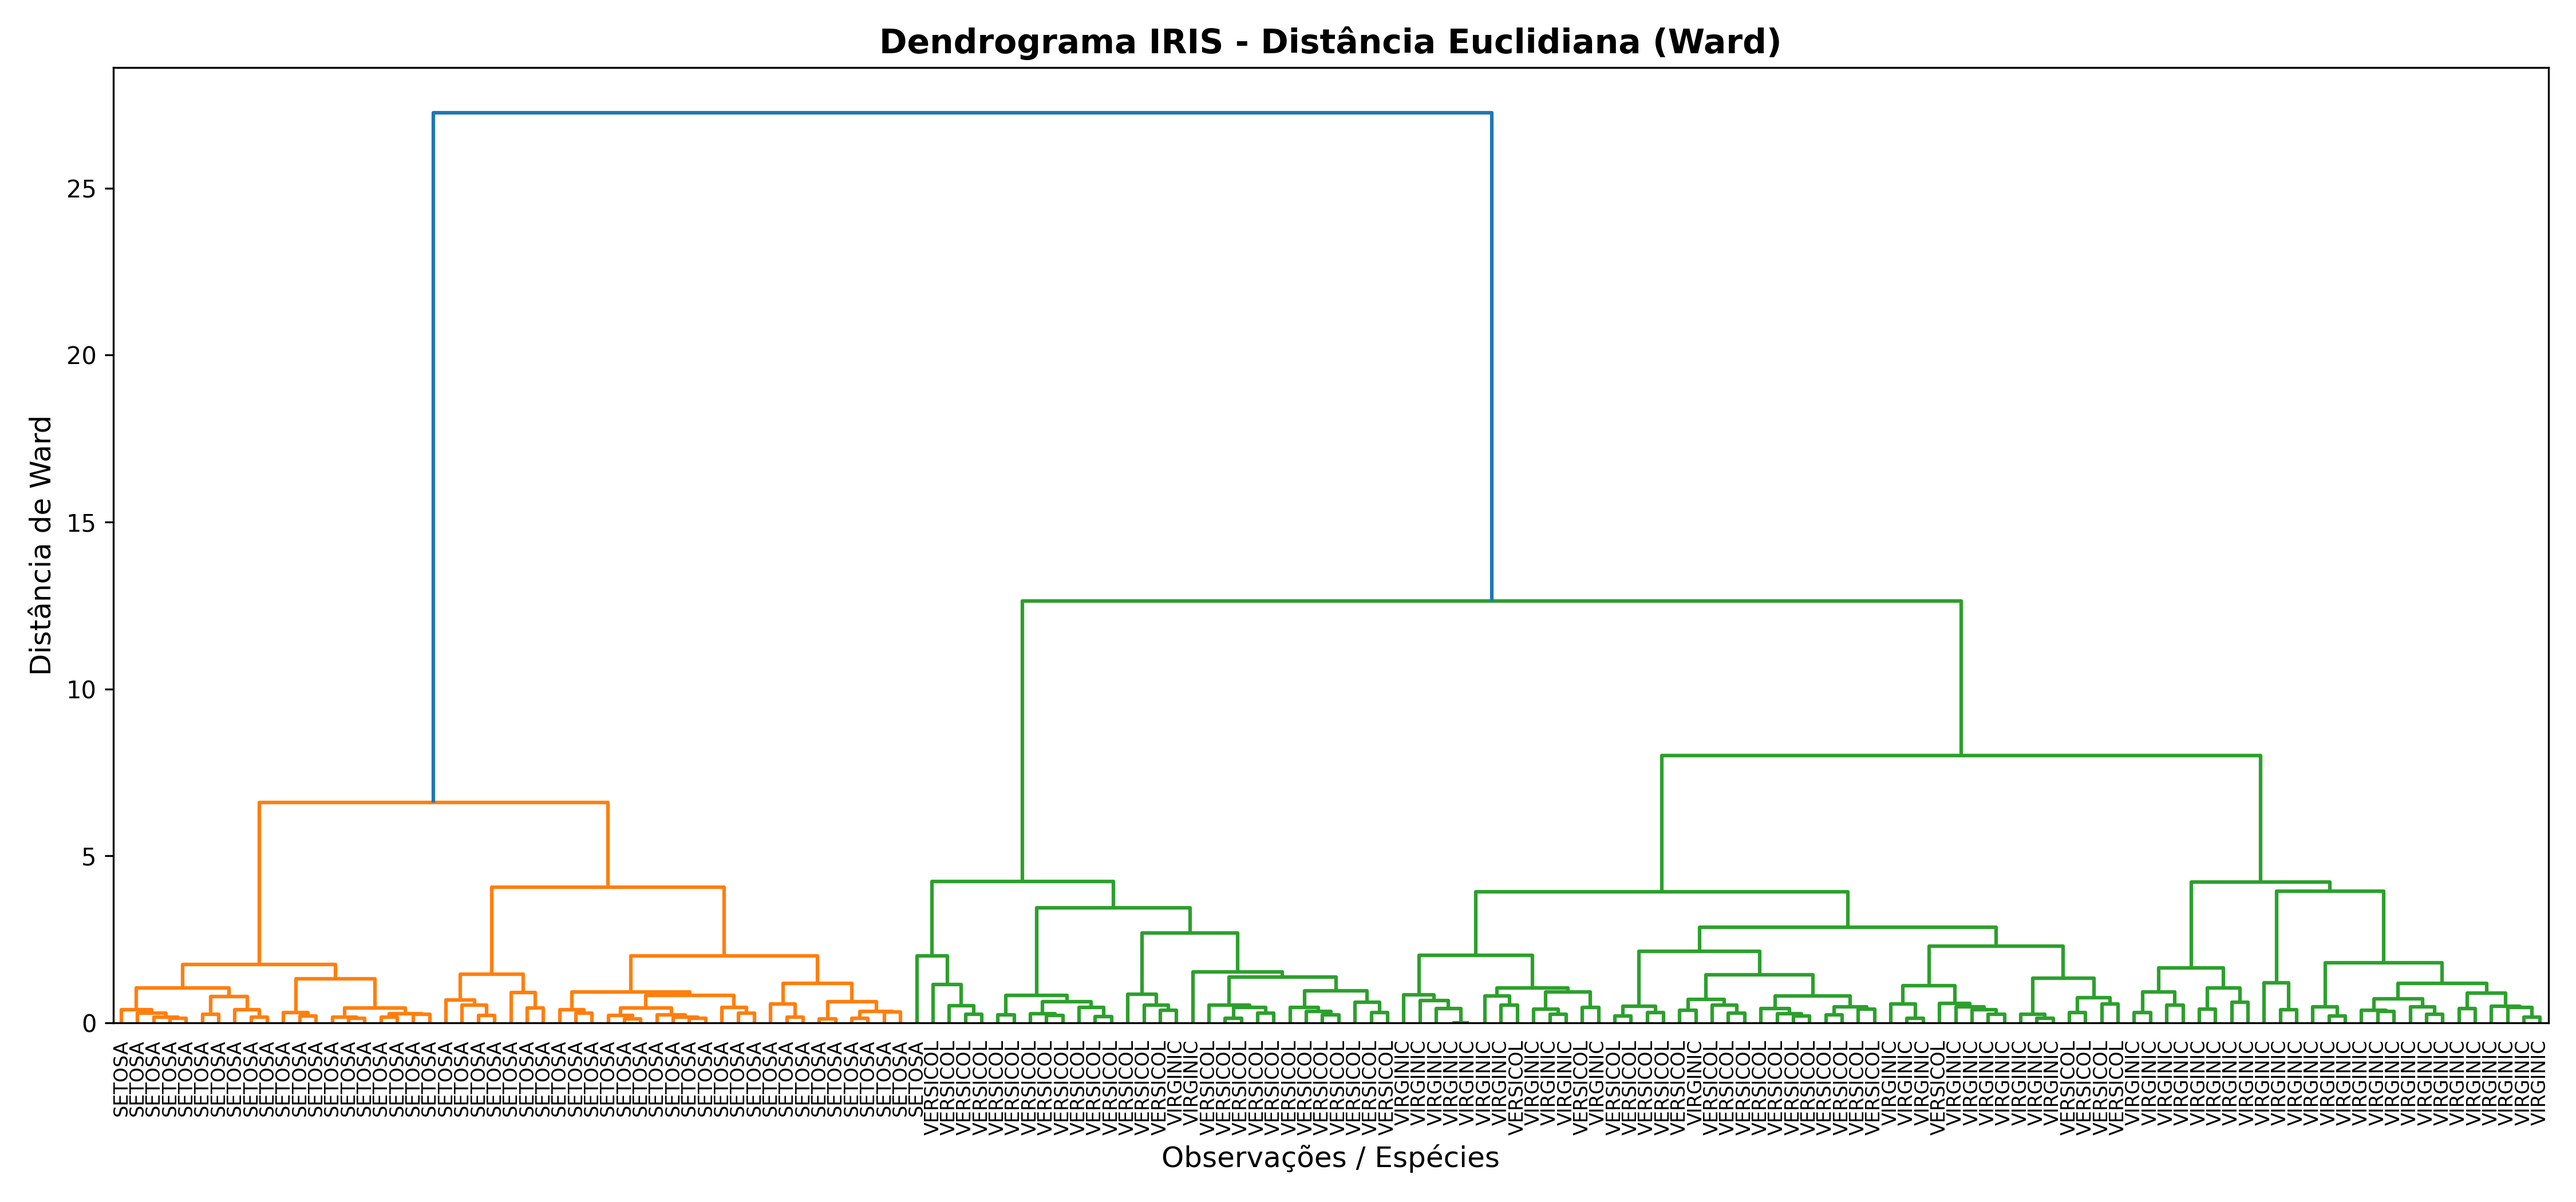
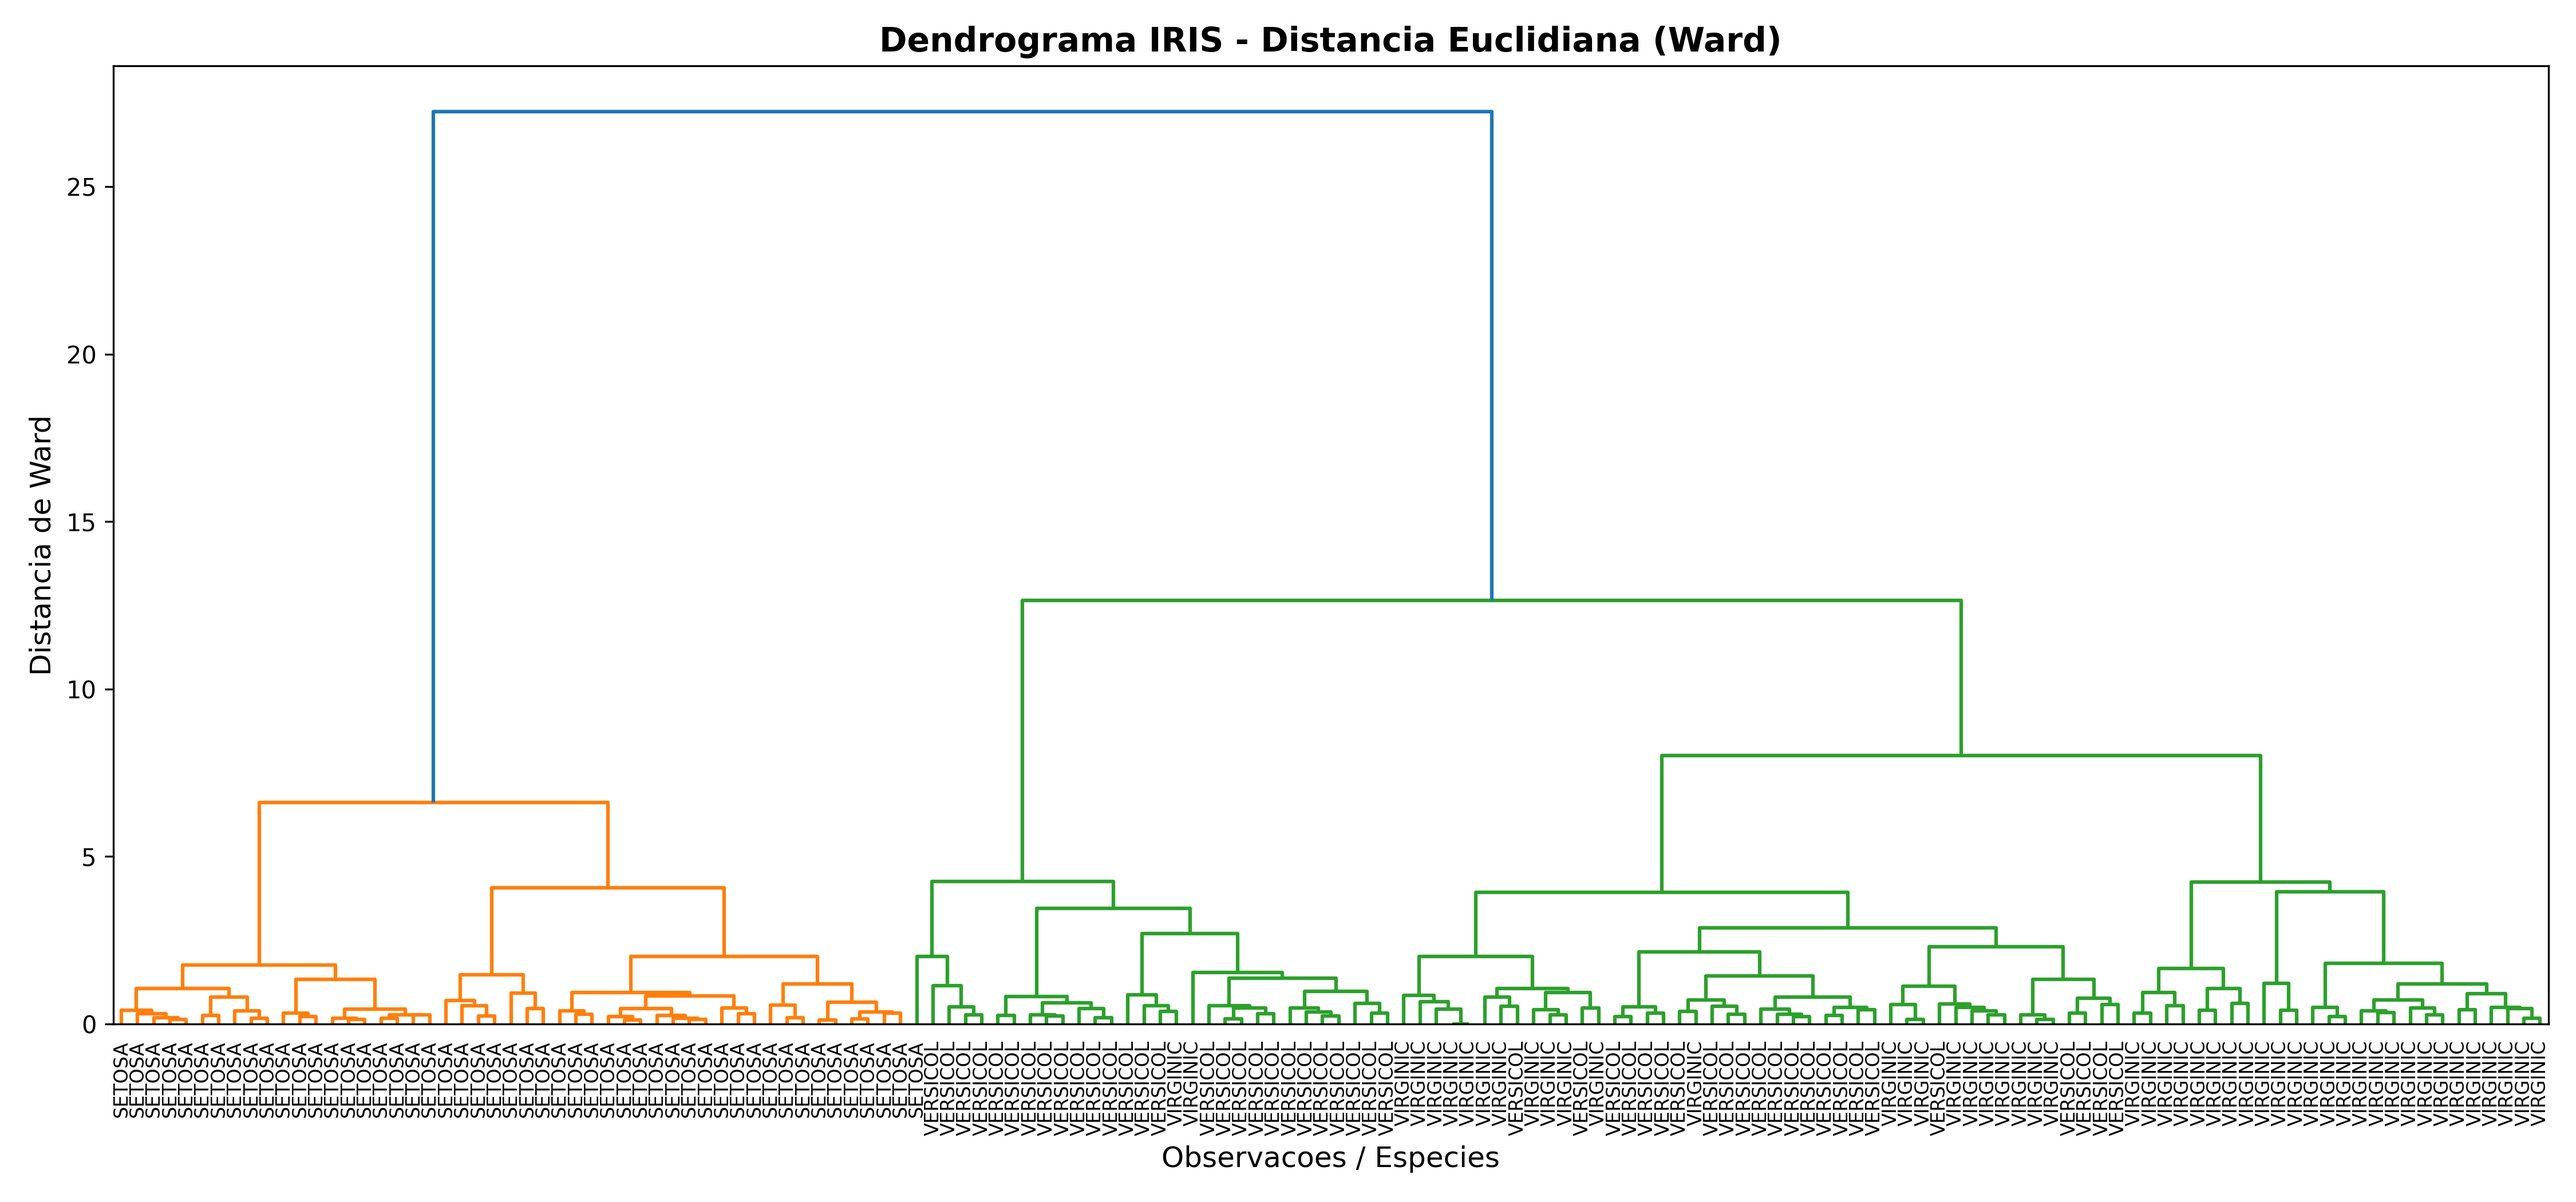
separa em grupos exercicio 2

Changed region(s): [[0.0311, 0.8048, 0.9956, 0.9595], [0.0622, 0.031, 0.9644, 0.0619]]

diff --git a/exercicios/exercicio_1/src/main_ex2.py b/exercicios/exercicio_1/src/main_ex2.py
@@ -12,30 +12,50 @@ print("--- Primeiras 10 linhas do dataset IRIS ---")
 print(df.head(10))
 
 # 3. Standardization (Scale)
-# Selecionamos as colunas numéricas (SEPALLEN, SEPALWID, PETALLEN, PETALWID)
-features = ['SEPALLEN', 'SEPALWID', 'PETALLEN', 'PETALWID']
-X = df[features].values
+# Selecionamos as colunas numericas (SEPALLEN, SEPALWID, PETALLEN, PETALWID)
+variaveis_list = ['SEPALLEN', 'SEPALWID', 'PETALLEN', 'PETALWID']
+mtz_vlrs = df[variaveis_list].values
 species = df['specie'].values
 
+print("Matriz de valores (primeiras 5 linhas):")
+print(mtz_vlrs[:5])
+
 scaler = StandardScaler()
-X_scaled = scaler.fit_transform(X)
+mtz_vlrs_padrozinados = scaler.fit_transform(mtz_vlrs)
+
 print("\nDados padronizados (primeiras 5 linhas):")
-print(X_scaled[:5])
+print(mtz_vlrs_padrozinados[:5])
 
 # 4. Produce distance matrix (Euclidean)
-dist_euclidean = pdist(X_scaled, metric='euclidean')
+dist_euclidean = pdist(mtz_vlrs_padrozinados, metric='euclidean')
 
 # 5. Show preview of distance matrix (squareform)
-# Mostrando apenas um subconjunto 5x5 para não poluir o terminal
+# Mostrando apenas um subconjunto 5x5 para nÃ£o poluir o terminal
 df_dist = pd.DataFrame(squareform(dist_euclidean))
-print("\n--- Prévia da Matriz de Distância (Subconjunto 5x5) ---")
+print("\n--- Previa da Matriz de Distancia (Subconjunto 5x5) ---")
 print(df_dist.iloc[:5, :5].round(3))
 
 # 6. Produce the Dendrogram
-print("\n--- Gerando Dendrograma Hierárquico (IRIS) ---")
+print("\n--- Gerando Dendrograma Hierarquico (IRIS) ---")
 ex2_2_clustering_iris.plot_dendrogram_iris(
     dist_euclidean, 
     labels=species, 
-    title='Dendrograma IRIS - Distância Euclidiana (Ward)', 
+    title='Dendrograma IRIS - Distancia Euclidiana (Ward)', 
     filename='dendrograma_iris_ward.png'
 )
+
+
+# 7. Cluster Assignment
+# Vamos atribuir 3 grupos (k=3) pois sabemos que existem 3 especies
+df_grupos = ex2_2_clustering_iris.atribuir_grupos(dist_euclidean, species, t=3, criterion='maxclust')
+print("\n--- Atribuicao de Grupos (Ward, k=3) ---")
+print(df_grupos.head(10))
+
+# Verificar a contagem em cada grupo
+print("\nContagem por grupo:")
+print(df_grupos['Grupo'].value_counts())
+
+# Opcional: Comparar com as especies originais (Crosstab)
+print("\n--- Cruzamento: Especie Original vs Grupo Hierarquico ---")
+print(pd.crosstab(df_grupos['Especie'], df_grupos['Grupo']))
+

diff --git a/exercicios/exercicio_1/src/main_ex1.py b/exercicios/exercicio_1/src/main_ex1.py
@@ -6,7 +6,6 @@ import pandas as pd
 # 1 read data from csv
 df = ex1_1_read_data_from_csv.read_data()
 
-# 2 show 10 first rows of the data
 print("--- Primeiras 10 linhas do dataframe ---")
 print(df.head(10))
 
@@ -14,7 +13,10 @@ print(df.head(10))
 X = df.iloc[:, 1:].values
 species = df.iloc[:, 0].values
 
-# criando e observando as matrizes de distancias
+
+##################################################
+# criando e observando as matrizes de distancias #
+##################################################
 dist_dice = ex1_2_clustering_binario.calcular_matriz_distancias(X, metric='dice')
 dist_sm = ex1_2_clustering_binario.calcular_matriz_distancias(X, metric='matching')
 
@@ -24,13 +26,27 @@ df_dist_dice = pd.DataFrame(squareform(dist_dice), index=species, columns=specie
 df_dist_sm = pd.DataFrame(squareform(dist_sm), index=species, columns=species)
 
 
-print("\n--- Matriz de DistÃ¢ncia (Sorensen-Dice) ---")
+print("\n--- Matriz de Distancia (Sorensen-Dice) ---")
 print(df_dist_dice.round(3))
 
-print("\n--- Matriz de DistÃ¢ncia (Simple Matching) ---")
+print("\n--- Matriz de Distancia (Simple Matching) ---")
 print(df_dist_sm.round(3))
 
 # 4 analyze the data using clustering_binario module (gera os dendrogramas)
 print("\n--- Gerando Dendrogramas ---")
 ex1_2_clustering_binario.plot_dendrogram(dist_dice, species, 'dice', 'Dendrograma - Sorensen-Dice', 'dendrograma_sorensen_dice.png')
 ex1_2_clustering_binario.plot_dendrogram(dist_sm, species, 'matching', 'Dendrograma - Simple Matching', 'dendrograma_simple_matching.png')
+
+# 5 Atribuindo grupos (exemplo de corte)
+print("\n--- Atribuicao de Grupos (Exemplos) ---")
+
+# Exemplo 1: Cortar o dendrograma Sorensen-Dice para obter 3 grupos
+df_grupos_dice = ex1_2_clustering_binario.atribuir_grupos(dist_dice, species, t=3, criterion='maxclust')
+print("\nGrupos (Sorensen-Dice, k=3):")
+print(df_grupos_dice)
+
+# Exemplo 2: Cortar o dendrograma Simple Matching na altura 0.4
+df_grupos_sm = ex1_2_clustering_binario.atribuir_grupos(dist_sm, species, t=0.4, criterion='distance')
+print("\nGrupos (Simple Matching, h=0.4):")
+print(df_grupos_sm)
+

diff --git a/exercicios/exercicio_1/src/ex2_2_clustering_iris.py b/exercicios/exercicio_1/src/ex2_2_clustering_iris.py
@@ -2,31 +2,46 @@ import pandas as pd
 import numpy as np
 import matplotlib.pyplot as plt
 from scipy.spatial.distance import pdist
-from scipy.cluster.hierarchy import linkage, dendrogram
+from scipy.cluster.hierarchy import linkage, dendrogram, fcluster
 import os
 
 def plot_dendrogram_iris(dist_matrix, labels, title, filename):
     """
     Produces a customized dendrogram for the IRIS dataset using Ward's method.
     """
-    # Agrupamento hierárquico (Ward is standard for numerical scaled data)
+    # Agrupamento hierÃ¡rquico (Ward is standard for numerical scaled data)
     Z = linkage(dist_matrix, method='ward')
-    
+
     plt.figure(figsize=(15, 7))
-    
+
     # Custom color map for species if labels are provided
     # (Simplified: using default dendrogram coloring)
     dendrogram(Z, labels=labels, leaf_rotation=90, leaf_font_size=8)
-    
+
     plt.title(title, fontsize=14, fontweight='bold')
-    plt.xlabel('Observações / Espécies', fontsize=12)
-    plt.ylabel('Distância de Ward', fontsize=12)
+    plt.xlabel('Observacoes / Especies', fontsize=12)
+    plt.ylabel('Distancia de Ward', fontsize=12)
     plt.tight_layout()
-    
-    # Salvar no diretório de figuras (text/figures)
+
+    # Salvar no diretÃ³rio de figuras (text/figures)
     output_path = os.path.join(os.path.dirname(__file__), '..', 'text', 'figures', filename)
     os.makedirs(os.path.dirname(output_path), exist_ok=True)
-    
+
     plt.savefig(output_path, dpi=300)
     plt.close()
     print(f"Dendrograma IRIS salvo em: {output_path}")
+
+def atribuir_grupos(dist_matrix, labels, t, criterion='distance', method='ward'):
+    """
+    Corta o dendrograma e atribui grupos as amostras.
+    criterion pode ser 'distance' (corte na altura t) ou 'maxclust' (t grupos).
+    """
+    Z = linkage(dist_matrix, method=method)
+    cluster_ids = fcluster(Z, t=t, criterion=criterion)
+
+    df_grupos = pd.DataFrame({
+        'Especie': labels,
+        'Grupo': cluster_ids
+    })
+    return df_grupos
+

diff --git a/exercicios/exercicio_1/src/ex1_2_clustering_binario.py b/exercicios/exercicio_1/src/ex1_2_clustering_binario.py
@@ -2,7 +2,7 @@ import pandas as pd
 import numpy as np
 import matplotlib.pyplot as plt
 from scipy.spatial.distance import pdist
-from scipy.cluster.hierarchy import linkage, dendrogram
+from scipy.cluster.hierarchy import linkage, dendrogram, fcluster
 import os
 
 def calcular_matriz_distancias(X, metric):
@@ -36,6 +36,20 @@ def plot_dendrogram(dist_matrix, labels, metric, title, filename):
     plt.savefig(output_path, dpi=300)
     plt.close()
     print(f"Dendrograma salvo em: {output_path}")
+
+def atribuir_grupos(dist_matrix, labels, t, criterion='distance', method='average'):
+    """
+    Corta o dendrograma e atribui grupos as amostras.
+    criterion pode ser 'distance' (corte na altura t) ou 'maxclust' (t grupos).
+    """
+    Z = linkage(dist_matrix, method=method)
+    cluster_ids = fcluster(Z, t=t, criterion=criterion)
+    
+    df_grupos = pd.DataFrame({
+        'Especie': labels,
+        'Grupo': cluster_ids
+    })
+    return df_grupos
 
 def analyze_binary_data(df):
     print("Iniciando analise de dados binÃ¡rios...")
